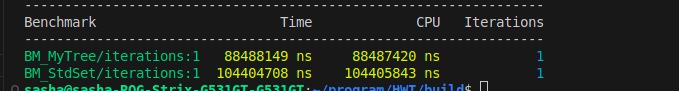
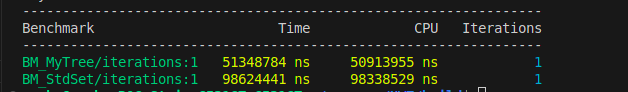
Redo src folder

diff --git a/benchmark/bench.cpp b/benchmark/bench.cpp
@@ -1,111 +1,60 @@
 #include <benchmark/benchmark.h>
 
-#include <fstream>
-#include <iostream>
-#include <string>
-#include <vector>
+#include <set>
 
 #include "hwt.hpp"
 
 using KeyT = int;
 
-auto range_query(my_tree::SearchTree<KeyT, KeyT>& tree, const KeyT& fst, const KeyT& snd) {
-    return tree.my_distance(fst, snd);
+template <typename Tree_t>
+std::size_t range_query(const Tree_t& tree, const KeyT fst, const KeyT snd) {
+    if (fst >= snd) {
+        return 0;
+    }
+    if constexpr (std::is_same_v<Tree_t, my_tree::SearchTree<KeyT>>)
+        return tree.my_distance(fst, snd);
+    else
+        return std::distance(tree.lower_bound(fst), tree.upper_bound(snd));
 }
 
-void get_result(const std::string& filename) {
-    std::vector<int> res = {};
-    std::ifstream file(filename);
-    if (!file) {
-        std::cout << "Invalid filename : " << filename << '\n';
-        exit(1);
-    }
-
-    my_tree::SearchTree<KeyT, KeyT> tree = {};
-
-    char type = 0;
-    while (file >> type) {
-        if (type == 'k') {
-            KeyT key = 0;
-            file >> key;
-            if (!file.good()) {
-                std::cout << "Error : invalid type of key\n";
-                return;
-            }
-
-            tree.insert(key);
-        } else if (type == 'q') {
-            KeyT key1 = 0;
-            KeyT key2 = 0;
-
-            file >> key1;
-            if (!std::cin.good()) {
-                std::cout << "Error : invalid type of key1\n";
-                return;
-            }
-
-            file >> key2;
-            if (!std::cin.good()) {
-                std::cout << "Error : invalid type of key2\n";
-                return;
-            }
-
-            if (key1 >= key2) {
-                res.push_back(0);
-                continue;
-            }
-
-            res.push_back(range_query(tree, key1, key2));
-        } else if (type) {
-            std::cout << "Error: invalit type\n";
-            return;
-        }
-    }
-}
-
+template <typename Tree_t>
 void get_answer(const std::string& filename) {
-    std::vector<KeyT> ans = {};
     std::ifstream file(filename);
     if (!file) {
-        std::cout << "error\n";
-        exit(1);
+        throw std::runtime_error("Invalid filename");
     }
 
-    using KeyT = int;
-    std::set<KeyT> tree = {};
+    Tree_t tree = {};
+    std::vector<int> res = {};
 
     char type = 0;
     while (file >> type) {
+        if (!file.good()) {
+            throw std::runtime_error("Invalid type of variable");
+        }
         if (type == 'k') {
-            KeyT key = 0;
+            KeyT key;
             file >> key;
             if (!file.good()) {
-                throw "Error : invalid type of key\n";
+                throw std::runtime_error("Invalid key");
             }
 
             tree.insert(key);
         } else if (type == 'q') {
-            KeyT key1 = 0;
-            KeyT key2 = 0;
+            KeyT key1, key2;
 
             file >> key1;
-            if (!std::cin.good()) {
-                throw "Error : invalid type of key1\n";
+            if (!file.good()) {
+                throw std::runtime_error("Invalid key1");
             }
-
             file >> key2;
-            if (!std::cin.good()) {
-                throw "Error : invalid type of key2\n";
+            if (!file.good()) {
+                throw std::runtime_error("Invalid key2");
             }
 
-            if (key1 >= key2) {
-                ans.push_back(0);
-                continue;
-            }
-
-            ans.push_back(std::distance(tree.lower_bound(key1), tree.upper_bound(key2)));
-        } else if (type) {
-            throw "Error: invalit type\n";
+            res.push_back(range_query<Tree_t>(tree, key1, key2));
+        } else {
+            throw std::invalid_argument("Invalid type");
         }
     }
 }
@@ -113,14 +62,14 @@ void get_answer(const std::string& filename) {
 static void BM_MyTree(benchmark::State& state) {
     for (auto _ : state) {
         const std::string path = "../benchmark/data/test2.txt";
-        get_result(path);
+        get_answer<my_tree::SearchTree<KeyT>>(path);
     }
 }
 
 static void BM_StdSet(benchmark::State& state) {
     for (auto _ : state) {
         const std::string path = "../benchmark/data/test2.txt";
-        get_answer(path);
+        get_answer<std::set<KeyT>>(path);
     }
 }
 

diff --git a/test/unit_tests/tests.cpp b/test/unit_tests/tests.cpp
@@ -5,8 +5,8 @@
 #include "hwt.hpp"
 
 TEST(AVL_tree, copy_ctor) {
-    my_tree::SearchTree<int, int> tree = {1, 2, 3, 4, 6, 7, 8, 12, 1};
-    my_tree::SearchTree<int, int> lhs = tree;
+    my_tree::SearchTree<int> tree = {1, 2, 3, 4, 6, 7, 8, 12, 1};
+    my_tree::SearchTree<int> lhs = tree;
 
     EXPECT_TRUE(tree.size() == lhs.size());
     for (auto itt = tree.begin(), itt_lhs = lhs.begin(), end = tree.end(); itt != end;
@@ -16,14 +16,14 @@ TEST(AVL_tree, copy_ctor) {
 }
 
 TEST(AVL_tree, copy_assignment) {
-    my_tree::SearchTree<int, int> tree = {3, 6, 9, 1, 5, 10, 22};
+    my_tree::SearchTree<int> tree = {3, 6, 9, 1, 5, 10, 22};
 
     std::vector<int> data = {};
     for (auto itt : tree) {
         data.push_back(itt);
     }
 
-    my_tree::SearchTree<int, int> lhs = {};
+    my_tree::SearchTree<int> lhs = {};
     lhs = tree;
 
     EXPECT_TRUE(data.size() == lhs.size());
@@ -34,14 +34,14 @@ TEST(AVL_tree, copy_assignment) {
 }
 
 TEST(AVL_tree, move_ctor) {
-    my_tree::SearchTree<int, int> tree = {-4, 9, 6, 4, -11, 0, 7, 4};
+    my_tree::SearchTree<int> tree = {-4, 9, 6, 4, -11, 0, 7, 4};
 
     std::vector<int> data = {};
     for (auto itt : tree) {
         data.push_back(itt);
     }
 
-    my_tree::SearchTree<int, int> lhs = std::move(tree);
+    my_tree::SearchTree<int> lhs = std::move(tree);
 
     EXPECT_TRUE(data.size() == lhs.size());
     auto itt_lhs = lhs.begin();
@@ -51,14 +51,14 @@ TEST(AVL_tree, move_ctor) {
 }
 
 TEST(AVL_tree, move_assignment) {
-    my_tree::SearchTree<int, int> tree = {5, 8, 9, 12, 3, -4, 67, 18};
+    my_tree::SearchTree<int> tree = {5, 8, 9, 12, 3, -4, 67, 18};
 
     std::vector<int> data = {};
     for (auto itt : tree) {
         data.push_back(itt);
     }
 
-    my_tree::SearchTree<int, int> lhs = {};
+    my_tree::SearchTree<int> lhs = {};
     lhs = std::move(tree);
 
     EXPECT_TRUE(data.size() == lhs.size());

diff --git a/src/driver.cpp b/src/driver.cpp
@@ -1,19 +1,24 @@
-#include <cassert>
+#include <iostream>
+#include <set>
 
 #include "hwt.hpp"
 
 using KeyT = int;
 
-auto range_query(my_tree::SearchTree<KeyT, KeyT>& tree, const KeyT fst, const KeyT snd) {
+template <typename Tree_t>
+std::size_t range_query(const Tree_t& tree, const KeyT fst, const KeyT snd) {
     if (fst >= snd) {
         return 0;
     }
-
-    return tree.my_distance(fst, snd);
+    if constexpr (std::is_same_v<Tree_t, my_tree::SearchTree<KeyT>>)
+        return tree.my_distance(fst, snd);
+    else
+        return std::distance(tree.lower_bound(fst), tree.upper_bound(snd));
 }
 
-int main() try {
-    my_tree::SearchTree<KeyT, KeyT> tree = {};
+template <typename Tree_t>
+void get_answer() {
+    Tree_t tree = {};
 
     char type = 0;
     while (std::cin >> type) {
@@ -40,15 +45,25 @@ int main() try {
                 throw std::runtime_error("Invalid key2");
             }
 
-            std::cout << range_query(tree, key1, key2) << ' ';
+            std::cout << range_query<Tree_t>(tree, key1, key2) << ' ';
         } else {
             throw std::invalid_argument("Invalid type");
         }
     }
 
-#ifdef DUMP
+#if defined(AVL_TREE) && (DUMP)
     tree.graph_dump("../../tree.dot");
 #endif
+}
+
+int main() try {
+#if defined(AVL_TREE)
+    using tree_type = my_tree::SearchTree<KeyT>;
+#else
+    using tree_type = std::set<KeyT>;
+#endif
+
+    get_answer<tree_type>();
 
     return 0;
 } catch (const std::exception& e) {

diff --git a/includes/hwt.hpp b/includes/hwt.hpp
@@ -10,7 +10,7 @@
 
 namespace my_tree {
 
-template <typename KeyT, typename Comp>
+template <typename KeyT>
 class SearchTree final {
     using Node = my_tree::Node<KeyT>;
     Node *top_ = nullptr;
@@ -147,7 +147,7 @@ class SearchTree final {
         Node *node = top_;
         Node *result = nullptr;
         while (node) {
-            if (value < node->key_ ) {
+            if (value < node->key_) {
                 result = std::exchange(node, node->left_);
             } else {
                 node = node->right_;
@@ -157,7 +157,7 @@ class SearchTree final {
         return iterator{result};
     }
 
-    int getRank(Node *node, const KeyT &val) {
+    int getRank(Node *node, const KeyT &val) const {
         int rank = 0;
         while (node) {
             if (val < node->key_) {
@@ -171,7 +171,7 @@ class SearchTree final {
         return rank;
     }
 
-    int my_distance(const KeyT &x, const KeyT &y) {
+    int my_distance(const KeyT &x, const KeyT &y) const {
         return getRank(top_, y) - getRank(top_, x - 1);
     }
 
